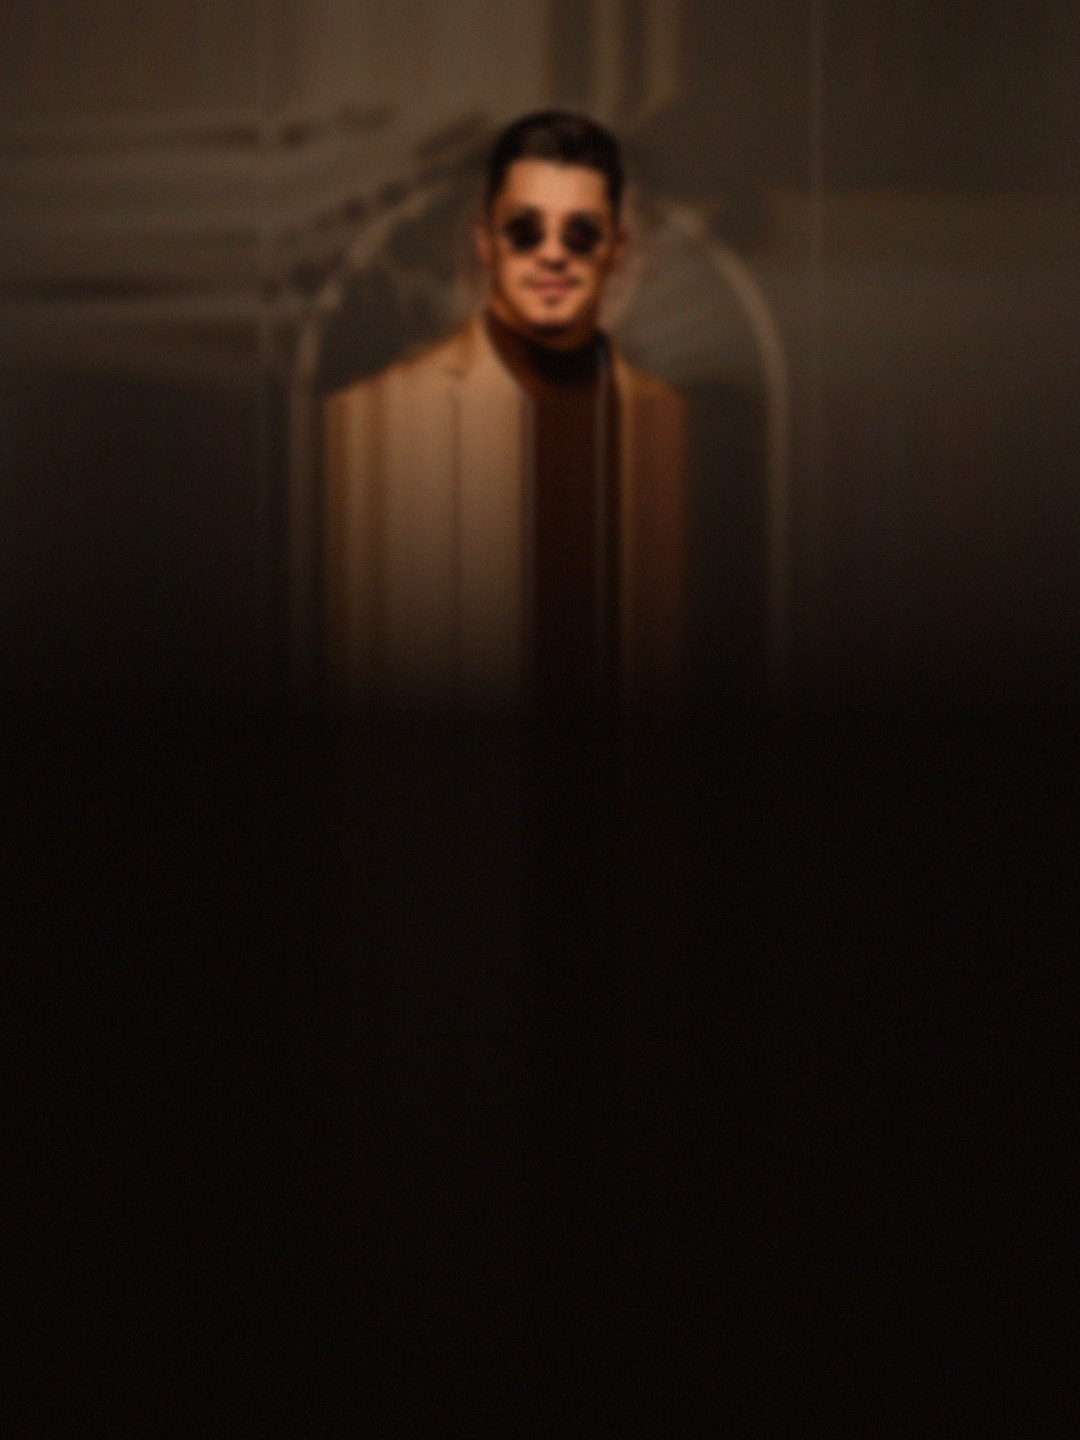
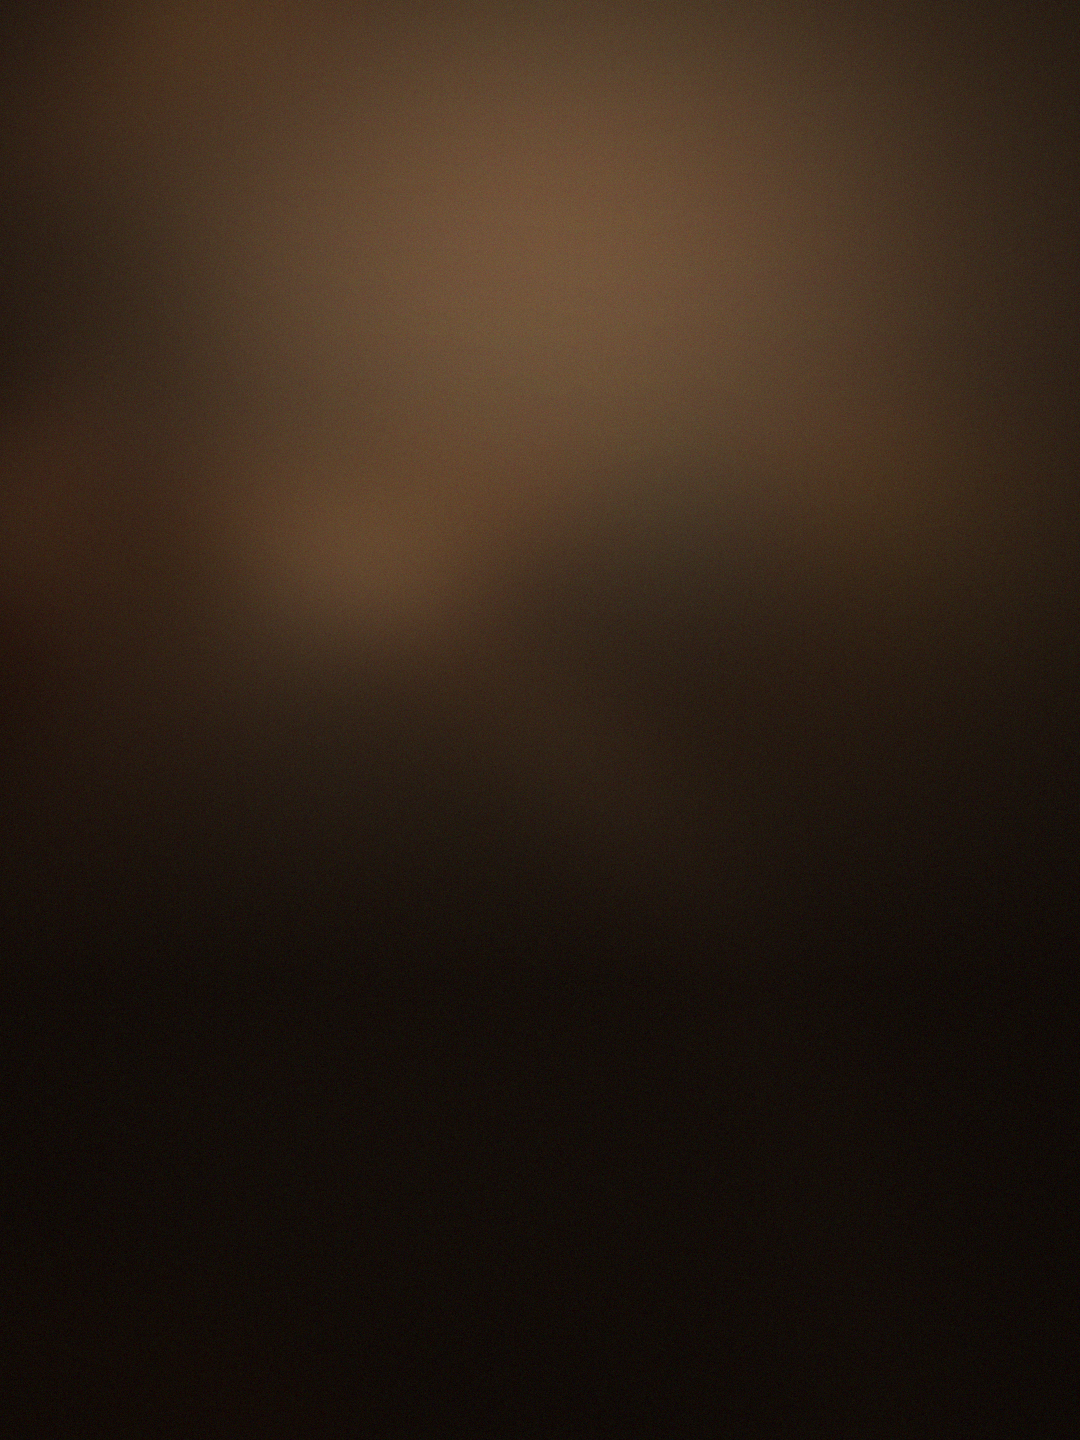
design: drop the artist photo, mark PREMIUM SOFA as one table left
The background no longer carries Bogdan's portrait. make_bg.py now builds
both backgrounds from the poster's out-of-focus backdrop alone (the region
to the artist's right), so the layout is warm atmosphere plus type, and the
billing lockup is the only focal point. The space the portrait occupied
goes back to the artist name, which returns to its larger size.

PREMIUM SOFA gains its availability bar: one table left, labelled "ULTIMA
MASĂ" and sharing the hot accent with the SOFA row.

Claude-Session: https://claude.ai/code/session_018LVxPFaAmNJPzujNDfX4Ru

Changed region(s): [[0.0, 0.0, 0.9778, 0.625], [0.3361, 0.0625, 0.3667, 0.0938]]

diff --git a/design/dor-mese/mese.html b/design/dor-mese/mese.html
@@ -36,16 +36,16 @@
   .brand{height:80px}
   .brand img{height:100%;display:block;filter:drop-shadow(0 6px 26px rgba(0,0,0,.6))}
 
-  /* spatiul in care se vede artistul, ca pe afis */
-  .portrait{height:176px;flex:none}
+  /* aer intre logo si titraj */
+  .portrait{height:100px;flex:none}
 
   /* ---------- numele artistului, ca pe afis ---------- */
   .artist{width:100%;color:var(--white)}
-  .artist .a1{font-weight:800;font-size:196px;letter-spacing:-.052em;line-height:.80;text-align:center;
+  .artist .a1{font-weight:800;font-size:210px;letter-spacing:-.052em;line-height:.80;text-align:center;
     text-shadow:0 10px 60px rgba(0,0,0,.45)}
   .artist .a2{margin-top:2px;display:flex;align-items:flex-end;justify-content:center;gap:26px}
   .artist .live{font-weight:700;font-size:26px;letter-spacing:.055em;padding-bottom:26px;white-space:nowrap}
-  .artist .dlp{font-weight:800;font-size:132px;letter-spacing:-.045em;line-height:.86;
+  .artist .dlp{font-weight:800;font-size:142px;letter-spacing:-.045em;line-height:.86;
     text-shadow:0 10px 60px rgba(0,0,0,.45)}
 
   /* ---------- sectiunea de mese ---------- */
@@ -66,10 +66,9 @@
   .fill{position:absolute;left:0;top:0;bottom:0;overflow:hidden}
   .fill i{position:absolute;left:0;top:0;bottom:0;background:var(--heat);display:block}
   .pct{font-weight:700;font-size:17px;letter-spacing:.14em;text-indent:.14em;white-space:nowrap}
-  .t.premium{padding-bottom:24px}
-  .t.hot .fill{box-shadow:0 0 22px rgba(220,111,48,.5)}
-  .t.hot .pct{color:var(--hot)}
-  .t:not(.hot) .pct{color:var(--warm)}
+  .t.hot .fill, .t.premium .fill{box-shadow:0 0 22px rgba(220,111,48,.5)}
+  .t.hot .pct, .t.premium .pct{color:var(--hot)}
+  .t:not(.hot):not(.premium) .pct{color:var(--warm)}
 
   /* ---------- informatii ---------- */
   .info{margin-top:auto;padding-top:26px;width:100%;text-align:center}
@@ -115,6 +114,10 @@
       <div class="t premium">
         <div class="row"><div class="name">PREMIUM SOFA</div><div class="price">1500€</div></div>
         <div class="specs">MAX. 15 PERSOANE · 6 STICLE · 15 BILETE INCLUSE</div>
+        <div class="bar">
+          <div class="track"><div class="fill" style="width:92%"><i style="width:108.696%"></i></div></div>
+          <div class="pct">ULTIMA MASĂ</div>
+        </div>
       </div>
 
       <div class="t hot">

diff --git a/design/dor-mese/mese_story.html b/design/dor-mese/mese_story.html
@@ -36,16 +36,16 @@
   .brand{height:80px}
   .brand img{height:100%;display:block;filter:drop-shadow(0 6px 26px rgba(0,0,0,.6))}
 
-  /* spatiul in care se vede artistul, ca pe afis */
-  .portrait{height:230px;flex:none}
+  /* aer intre logo si titraj */
+  .portrait{height:150px;flex:none}
 
   /* ---------- numele artistului, ca pe afis ---------- */
   .artist{width:100%;color:var(--white)}
-  .artist .a1{font-weight:800;font-size:205px;letter-spacing:-.052em;line-height:.80;text-align:center;
+  .artist .a1{font-weight:800;font-size:225px;letter-spacing:-.052em;line-height:.80;text-align:center;
     text-shadow:0 10px 60px rgba(0,0,0,.45)}
   .artist .a2{margin-top:2px;display:flex;align-items:flex-end;justify-content:center;gap:26px}
   .artist .live{font-weight:700;font-size:26px;letter-spacing:.055em;padding-bottom:26px;white-space:nowrap}
-  .artist .dlp{font-weight:800;font-size:138px;letter-spacing:-.045em;line-height:.86;
+  .artist .dlp{font-weight:800;font-size:152px;letter-spacing:-.045em;line-height:.86;
     text-shadow:0 10px 60px rgba(0,0,0,.45)}
 
   /* ---------- sectiunea de mese ---------- */
@@ -66,10 +66,9 @@
   .fill{position:absolute;left:0;top:0;bottom:0;overflow:hidden}
   .fill i{position:absolute;left:0;top:0;bottom:0;background:var(--heat);display:block}
   .pct{font-weight:700;font-size:17px;letter-spacing:.14em;text-indent:.14em;white-space:nowrap}
-  .t.premium{padding-bottom:24px}
-  .t.hot .fill{box-shadow:0 0 22px rgba(220,111,48,.5)}
-  .t.hot .pct{color:var(--hot)}
-  .t:not(.hot) .pct{color:var(--warm)}
+  .t.hot .fill, .t.premium .fill{box-shadow:0 0 22px rgba(220,111,48,.5)}
+  .t.hot .pct, .t.premium .pct{color:var(--hot)}
+  .t:not(.hot):not(.premium) .pct{color:var(--warm)}
 
   /* ---------- informatii ---------- */
   .info{margin-top:auto;padding-top:26px;width:100%;text-align:center}
@@ -115,6 +114,10 @@
       <div class="t premium">
         <div class="row"><div class="name">PREMIUM SOFA</div><div class="price">1500€</div></div>
         <div class="specs">MAX. 15 PERSOANE · 6 STICLE · 15 BILETE INCLUSE</div>
+        <div class="bar">
+          <div class="track"><div class="fill" style="width:92%"><i style="width:108.696%"></i></div></div>
+          <div class="pct">ULTIMA MASĂ</div>
+        </div>
       </div>
 
       <div class="t hot">

diff --git a/design/dor-mese/make_bg.py b/design/dor-mese/make_bg.py
@@ -1,42 +1,41 @@
+"""Construieste fundalurile graficii din afisul principal.
+
+Foloseste doar fundalul difuz din dreapta artistului (x 700-1070, y 180-770) —
+o zona fara persoana si fara textul imprimat pe afis — pe care o intinde peste
+toata panza, o blureaza si o stinge spre negru cald.
+
+    python3 make_bg.py /cale/catre/afis.webp
+"""
 from PIL import Image, ImageFilter
 import numpy as np
-
 import sys
-# afișul principal, la rezoluția originală 1080x1440
+
 P = Image.open(sys.argv[1] if len(sys.argv) > 1 else 'afis.webp').convert('RGB')
-STRIP_TOP, STRIP_BOT = 170, 770
+BACKDROP = (700, 180, 1070, 770)          # fundal difuz, fara artist
 
-def build(W, H, scale, head_y, fade_start, fade_end, top_dark=0.34):
-    strip = P.crop((0, STRIP_TOP, 1080, STRIP_BOT))
-    sw = int(1080*scale); sh = int(strip.height*scale)
-    strip = strip.resize((sw, sh), Image.LANCZOS)
-    canvas = Image.new('RGB', (W, H), (16, 11, 7))
-    x0 = (W - sw)//2
-    canvas.paste(strip, (x0, head_y))
-    if x0 > 0:
-        canvas.paste(strip.crop((0,0,28,sh)).resize((x0, sh), Image.BICUBIC), (0, head_y))
-        canvas.paste(strip.crop((sw-28,0,sw,sh)).resize((W-x0-sw, sh), Image.BICUBIC), (x0+sw, head_y))
-    full = canvas.crop((0, head_y, W, head_y+sh))
-    if head_y > 0:
-        canvas.paste(full.crop((0,0,W,2)).resize((W, head_y), Image.BICUBIC), (0,0))
-    tail_h = max(H-head_y-sh, 1)
-    tail = np.asarray(full.crop((0,sh-3,W,sh)).resize((W, tail_h), Image.BICUBIC)).astype(float)
-    tail *= np.linspace(1.0, 0.0, tail_h)[:,None,None] ** 0.8
-    canvas.paste(Image.fromarray(tail.astype(np.uint8)), (0, head_y+sh))
+def build(W, H, glow_y, fade_start, fade_end, top_dark=0.0):
+    src = P.crop(BACKDROP).resize((W, H), Image.LANCZOS)
+    a = np.asarray(src.filter(ImageFilter.GaussianBlur(int(46 * W / 1080)))).astype(float)
 
-    a = np.asarray(canvas.filter(ImageFilter.GaussianBlur(4))).astype(float)
-    yy = np.linspace(0, H, H)[:,None]; xx = np.linspace(0, 1, W)[None,:]
-    t = np.clip((yy-fade_start)/(fade_end-fade_start), 0, 1)
-    keep = (1 - 0.95*(t**1.25)) * (1 - top_dark*np.exp(-(yy**2)/(2*140.0**2)))
-    vig = np.clip(1 - 0.44*(((xx-0.5)*2)**2) - 0.10*(((yy/H-0.30)*2)**2), 0.28, 1)
-    a = a * (keep*vig)[...,None] * 0.92
-    a = a * np.array([1.06,0.98,0.90]) + np.array([11,7,5])
-    a = np.clip(a,0,255)
-    rng = np.random.default_rng(5)
-    a = np.clip(a + rng.normal(0,4.0,a.shape),0,255).astype(np.uint8)
+    yy = np.linspace(0, H, H)[:, None]
+    xx = np.linspace(0, 1, W)[None, :]
+    # halou cald in treimea de sus, acolo unde sta logo-ul si numele
+    glow = 0.52 + 1.30 * np.exp(-(((yy - glow_y) ** 2) / (2 * (H * 0.17) ** 2)
+                                  + ((xx - 0.5) ** 2) / 0.24))
+    t = np.clip((yy - fade_start) / (fade_end - fade_start), 0, 1)
+    fade = 1 - 0.80 * (t ** 1.2)
+    fade = fade * (1 - top_dark * np.exp(-(yy ** 2) / (2 * 140.0 ** 2)))
+    vig = np.clip(1 - 0.46 * (((xx - 0.5) * 2) ** 2)
+                    - 0.16 * (((yy / H - 0.30) * 2) ** 2), 0.26, 1)
+
+    a = a * (glow * fade * vig)[..., None] * 0.92
+    a = a * np.array([1.08, 0.97, 0.85]) + np.array([14, 9, 6])
+    a = np.clip(a, 0, 255)
+    rng = np.random.default_rng(11)
+    a = np.clip(a + rng.normal(0, 4.2, a.shape), 0, 255).astype(np.uint8)
     return Image.fromarray(a)
 
 if __name__ == '__main__':
-    build(1080, 1440, 0.52,  92, 300,  720).save('assets/bg.png')
-    build(1080, 1920, 0.62, 321, 566, 1060, top_dark=0.0).save('assets/bg_story.png')
+    build(1080, 1440, 300, 430,  980).save('assets/bg.png')
+    build(1080, 1920, 520, 700, 1330, top_dark=0.34).save('assets/bg_story.png')
     print('assets/bg.png + assets/bg_story.png regenerate')

diff --git a/design/dor-mese/README.md b/design/dor-mese/README.md
@@ -9,7 +9,7 @@ Grafică secundară pentru mese, derivată din afișul principal
 |---|---|
 | `mese.html` | Sursa graficii de feed — 1080×1440 (3:4, același raport ca afișul). |
 | `mese_story.html` | Sursa graficii de story — 1080×1920, cu zone sigure de 210px sus/jos. |
-| `assets/bg.png`, `assets/bg_story.png` | Fundalul din afiș: fâșia curată a fotografiei (y 170–770, deasupra textului imprimat), scalată, cu marginile prelungite până la 1080px și stinsă treptat spre negru cald. Se regenerează cu `make_bg.py`. |
+| `assets/bg.png`, `assets/bg_story.png` | Fundalul din afiș: doar zona difuză din dreapta artistului (x 700–1070, y 180–770), fără persoană și fără textul imprimat, blurată și stinsă spre negru cald. Se regenerează cu `make_bg.py`. |
 | `make_bg.py` | Scriptul care construiește cele două fundaluri din afișul original. |
 | `assets/dor.png`, `assets/havana.png` | Logo-uri extrase pe transparență (luminanță → alpha, fill crem `#F4EADC`). |
 | `fonts/` | Inter Display (OFL) — grotesc apropiat de titrajul afișului. |
@@ -29,9 +29,11 @@ micșoreaz-o la dimensiunea nominală (Lanczos) înainte de publicare.
 
 ## Sistem vizual
 
-- Ierarhia repetă afișul: logo DOR sus, portretul, apoi lockup-ul „Bogdan / DLP"
-  cu „LIVE CU FORMATIA" la stânga — acesta este elementul dominant, nu mesele.
-  „TABLE EXPERIENCE" e doar titlul secțiunii de dedesubt.
+- Ierarhia: logo DOR sus, apoi lockup-ul „Bogdan / DLP" cu „LIVE CU FORMATIA"
+  la stânga — acesta este elementul dominant, nu mesele. „TABLE EXPERIENCE"
+  e doar titlul secțiunii de dedesubt.
+- Fundalul este abstract, fără fotografia artistului — doar atmosfera caldă
+  a afișului, ca titrajul să rămână singurul punct de atenție.
 - Crem `#F4EADC` pe fundal sepia închis, ca pe afiș; numele artistului în alb pur,
   ca pe afiș.
 - Titraj Inter Display ExtraBold, tracking `-0.055em` (litere strânse, ca „Bogdan DLP").
@@ -42,9 +44,8 @@ micșoreaz-o la dimensiunea nominală (Lanczos) înainte de publicare.
   imaginea sub titraj.
 - Trei niveluri, în ordinea descrescătoare a prețului: PREMIUM SOFA 1500€,
   SOFA TABLE 500€, STANDING TABLE 250€.
-- Disponibilitatea se comunică prin numărul de mese rămase („ULTIMELE 2 MESE",
-  „ULTIMELE 6 MESE"), nu prin procent. PREMIUM SOFA nu are încă bandă de
-  ocupare — se adaugă când se știe câte mese premium sunt disponibile.
+- Disponibilitatea se comunică prin numărul de mese rămase („ULTIMA MASĂ",
+  „ULTIMELE 2 MESE", „ULTIMELE 6 MESE"), nu prin procent.
 - Banda de ocupare folosește o scară de căldură comună celor două carduri:
   auriu `#E9C65C` → chihlimbar `#E4A33F` → portocaliu `#DC6F30` → roșu `#D13B2B`,
   întinsă pe lățimea totală a pistei. Umplerea decupează gradientul la procentul
@@ -68,8 +69,6 @@ micșoreaz-o la dimensiunea nominală (Lanczos) înainte de publicare.
   50% → `200%`, 100% → `100%`).
 - `.pct` → numărul de mese rămase („ULTIMELE 2 MESE").
 
-Ca să primească și PREMIUM SOFA o bandă, scoate clasa `premium` de pe rând și
-adaugă-i același bloc `.bar` ca al celorlalte.
 
 Procentul benzii și numărul de mese sunt valori separate: banda arată cât s-a
 rezervat, textul arată cât a mai rămas. Când se schimbă stocul, actualizează-le
